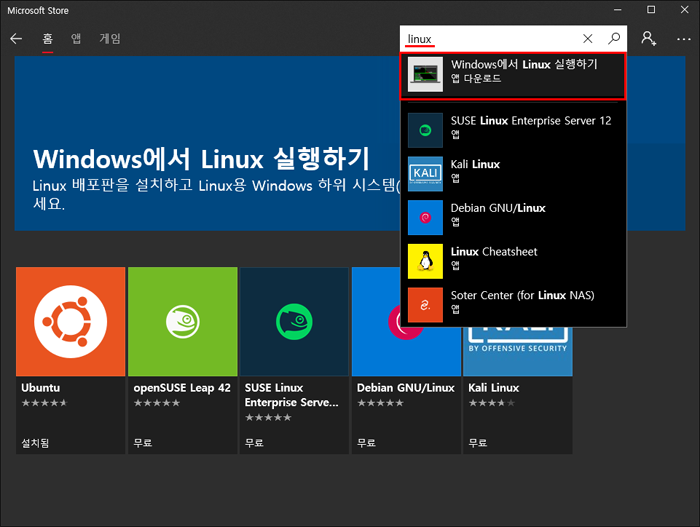
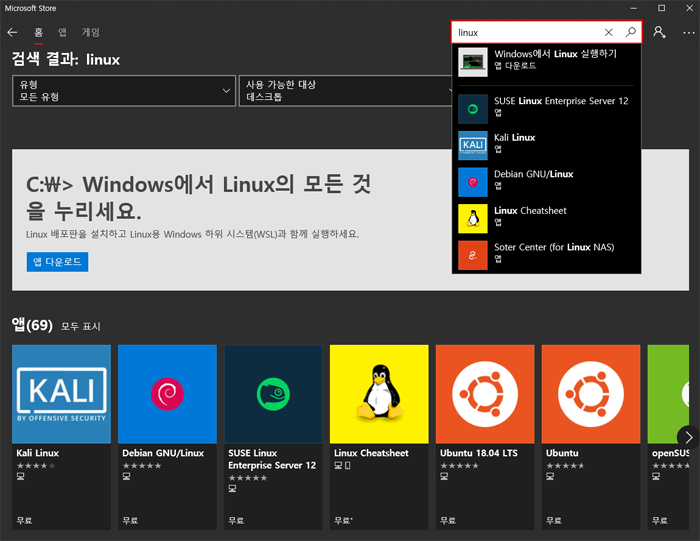
fix: 설치부분 수정 1. ubuntu 최신버전 문제가 있는 것 같아 언급 2. 'linux' 로만 검색해도 다양한 리눅스를 검색할 수 있음

diff --git a/_posts/Etc/2018-09-12-windows-wsl.md b/_posts/Etc/2018-09-12-windows-wsl.md
@@ -37,7 +37,10 @@ Enable-WindowsOptionalFeature -Online -FeatureName Microsoft-Windows-Subsystem-L
 
 ## 3. Linux 설치
 
-**Microsoft Store** 에서 '**linux**' 로 검색하면 '**Windows 에서 Linux 실행하기 앱 다운로드**' 라는 항목이 나온다. 이 항목을 클릭하면 설치할 수 있는 Linux 들을 볼 수 있다.
+**Microsoft Store** 에서 '**linux**' 로 검색하면 설치할 수 있는 Linux 들이 나온다.
+
+* Ubuntu 를 설치하려면 **16.04 LTS** 를 설치하자. 18.04 LTS 는 나온지 얼마 안되서 그런지 문제가 많은듯하다.
+  * MongoDB 를 설치하려고 했는데 결국 성공하지 못함 ([설치매뉴얼](https://docs.mongodb.com/manual/tutorial/install-mongodb-on-ubuntu))
 
 ![config](/assets/img/posts/Etc/2018-09-12/search.png)
 
